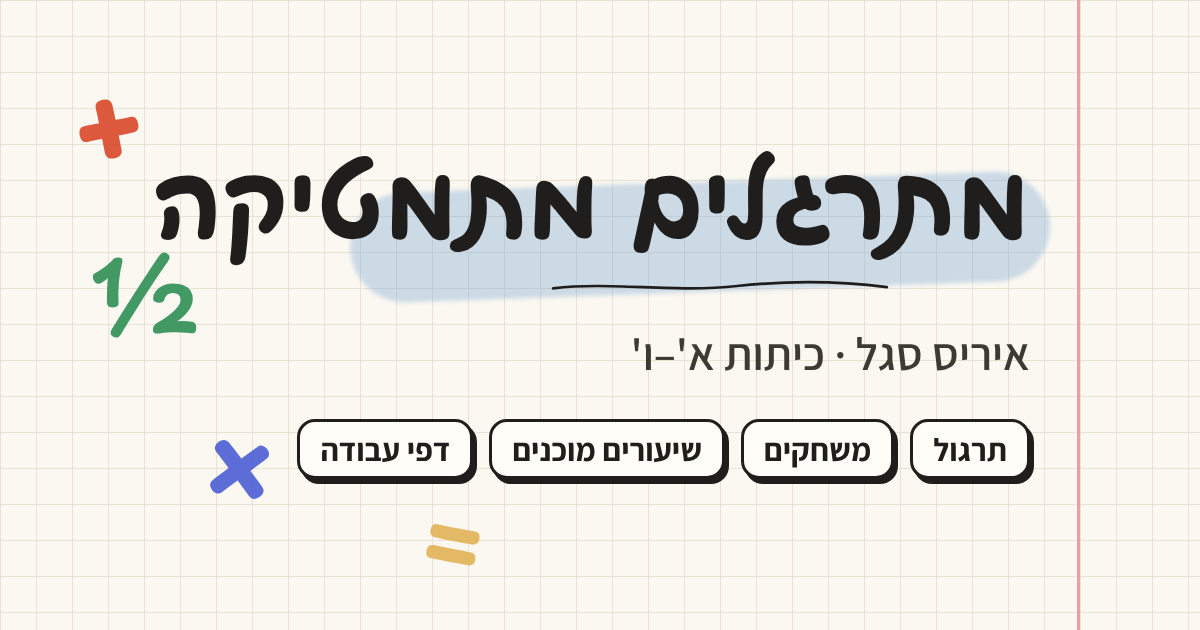
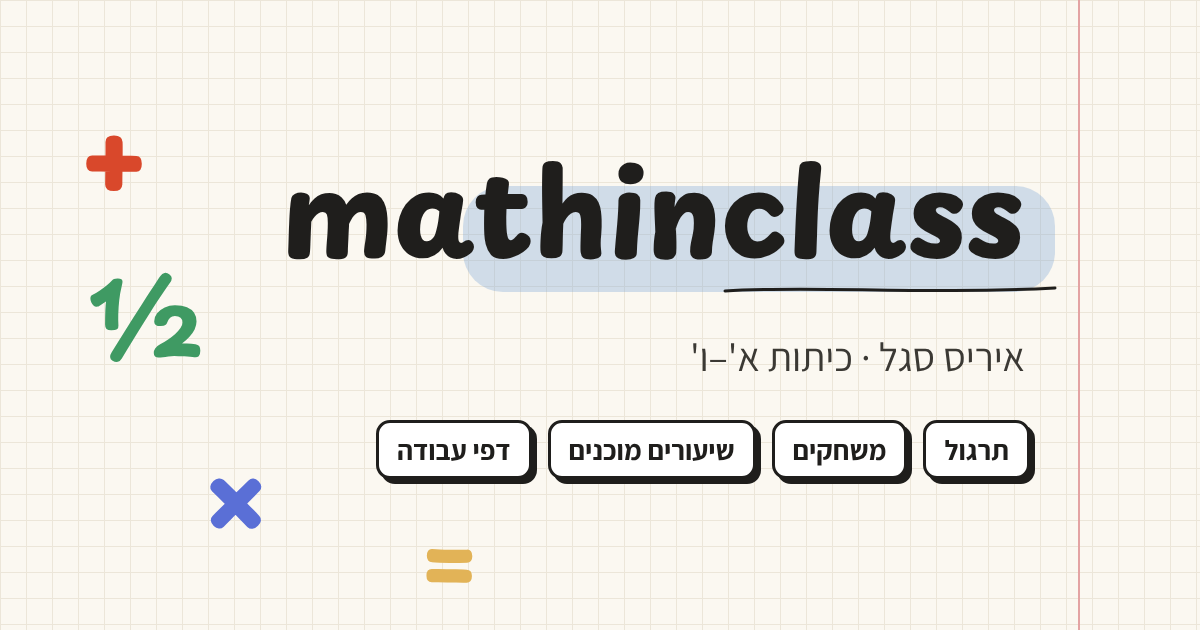
Share image og.png: new name mathinclass
Claude-Session: https://claude.ai/code/session_01TGfvK3DPSXBft8rJZHHHZi

diff --git a/CLAUDE.md b/CLAUDE.md
@@ -10,7 +10,7 @@
 - **קובץ יחיד:** כל האתר הוא `math6-v2.html` (קובץ ענק, אלפי שורות: HTML+CSS+JS inline).
 - **עורכים תמיד את `math6-v2.html`**, ואז מעתיקים: `cp math6-v2.html math6.html`. שני הקבצים חייבים להיות זהים.
 - אין build, אין תלויות — פותחים את ה-HTML בדפדפן וזה עובד.
-- **שם האתר (21.11, איריס): `mathinclass`** (באותיות קטנות) – בכותרת הגדולה, בלשונית, בתצוגת קישור, בסימן המים בהדפסה ובמייל בקשת קוד. השם הישן "מתרגלים מתמטיקה" לא בשימוש. תמונת השיתוף `og.png` עדיין עם השם הישן.
+- **שם האתר (21.11, איריס): `mathinclass`** (באותיות קטנות) – בכותרת הגדולה, בלשונית, בתצוגת קישור, בסימן המים בהדפסה ובמייל בקשת קוד. השם הישן "מתרגלים מתמטיקה" לא בשימוש. גם תמונת השיתוף `og.png` (1200×630) עודכנה ל-mathinclass. בדף הפרטיות כתוב MathInClass.
 - **דף הבית = `math.html`** (בחירת כיתה; מי שכבר בחר עובר ל-`math6.html?grade=`). `index.html` (21.11) רק מעביר מיד ל-`math.html?choose` (**תמיד בחירת כיתה**, גם כשבמכשיר שמורה כיתה – בקשת איריס) עם כל הפרמטרים וה-# (`location.replace`, ובלי JS – meta refresh), כדי שהכתובת הראשית (mathinclass.com/) תפתח את האתר. לא לשים בו תוכן.
 
 - **נושאים לפי קטגוריות (21.11):** בלשונית "נושאים" הרשימה מחולקת ל-`TOPIC_CATS` (טבעיים, עשרוניים, שברים, גאומטריה, אחוזים, חקר נתונים, שאלות מילוליות) ב-`topicCatsHTML()`. **תצוגת אריחים (21.11, איריס בחרה):** קודם 7 אריחי קטגוריות (`.tcat-tiles`: מספר נושאים/כלים, פס שליטה ממוצע); לחיצה → `catShow(id)` מציג רק את הקטגוריה (`.tcat-one`) עם "→ כל הקטגוריות"; הקטגוריה הפתוחה נשמרת ב-`sessionStorage['math-cat']` (חוזרים אליה אחרי תרגול). שיוך ב-`CAT_OF` (מזהה נושא / `drawGo`/`quadGo`/`wpGo` → קטגוריה; ברירת מחדל טבעיים). כלי המחשה – `cat` ב-`TOOL_CARDS` (ברירת מחדל טבעיים), מוצגים בסוף הקטגוריה. קטגוריה ריקה בכיתה – לא מוצגת. נושא חדש: להוסיף ל-`CAT_OF` אם אינו טבעיים. הקורסים נשארים בלשונית נפרדת. כיתה ו': "מבנה עשרוני" פוצל – `place` = טבעיים עד מיליונים, `placeDec` (נושא חדש בסוף `TOPICS`) = אחרי הנקודה. כרטיסיות הסבר ל-`placeDec`: `LESSONS.placeDec` (6 כרטיסיות, `pvdTable` – טבלת מקומות עם עשיריות/מאיות/אלפיות), לפני `dec` ב-`LESSON_ORDER`. מעבדת העשרוניים (`dlTool`, ה'–ו'), קפיצות שברים (`fjTool`, ה'–ו') וקפיצות חילוק (`fdTool`, ו') – גם ככלים בקטגוריה (ונשארים במשחקים).
